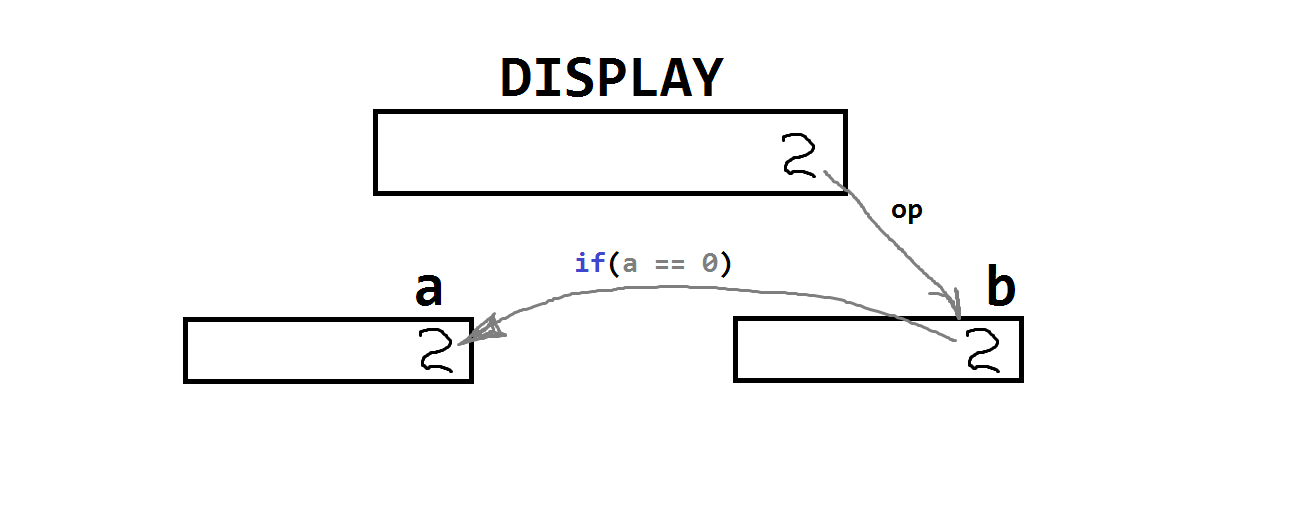
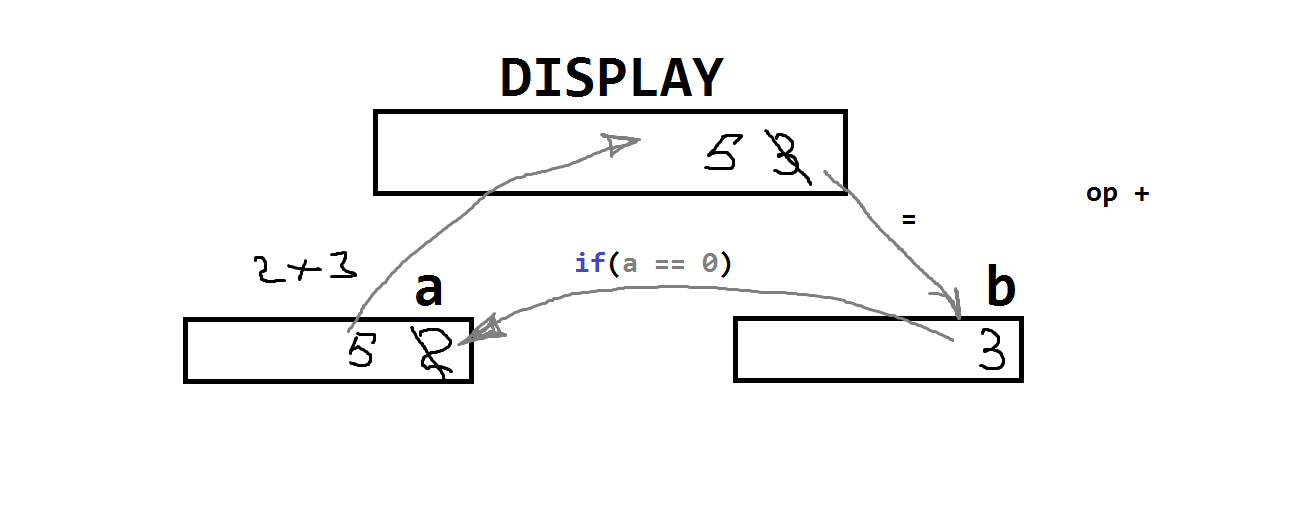
Keyboard in progress

diff --git a/WinAPI/MainWindow/main.cpp b/WinAPI/MainWindow/main.cpp
@@ -104,7 +104,7 @@ INT CALLBACK WndProc(HWND hwnd, UINT uMsg, WPARAM wParam, LPARAM lParam)
 			NULL, //exStyle
 			"Edit",
 			"0",
-			WS_CHILD | WS_VISIBLE | ES_RIGHT | WS_BORDER,
+			WS_CHILD | WS_VISIBLE  | WS_BORDER | ES_RIGHT | ES_READONLY,
 			g_i_START_X, g_i_START_Y,
 			g_i_DISPLAY_WIDTH, g_i_DISPLAY_HEIGHT,
 			hwnd, (HMENU)IDC_EDIT, GetModuleHandle(NULL), NULL
@@ -255,7 +255,9 @@ INT CALLBACK WndProc(HWND hwnd, UINT uMsg, WPARAM wParam, LPARAM lParam)
 		static double b = 0;
 		static bool stored = false;
 		static bool input = false;
+		static bool operation_changed = false;
 		static char operation = 0;
+		static char old_operation = 0;
 		if (LOWORD(wParam) >= IDC_BUTTON_0 && LOWORD(wParam) <= IDC_BUTTON_9)
 		{
 			input = true;
@@ -291,12 +293,16 @@ INT CALLBACK WndProc(HWND hwnd, UINT uMsg, WPARAM wParam, LPARAM lParam)
 		if (LOWORD(wParam) >= IDC_BUTTON_PLUS && LOWORD(wParam) <= IDC_BUTTON_SLASH)
 		{
 			SendMessage(hEdit, WM_GETTEXT, SIZE, (LPARAM)sz_buffer);
-			if(input)b = strtod(sz_buffer, NULL);
+			if (input)b = strtod(sz_buffer, NULL);
 			if (a == 0)
 				a = b;
 			stored = true;
 			input = false;
-			SendMessage(hwnd, WM_COMMAND, IDC_BUTTON_EQUAL, 0);
+			if (operation == old_operation && operation_changed)
+			{
+				SendMessage(hwnd, WM_COMMAND, IDC_BUTTON_EQUAL, 0);
+				//operation_changed = false;
+			}
 			switch (LOWORD(wParam))
 			{
 			case IDC_BUTTON_PLUS:	operation = '+'; break;
@@ -304,11 +310,12 @@ INT CALLBACK WndProc(HWND hwnd, UINT uMsg, WPARAM wParam, LPARAM lParam)
 			case IDC_BUTTON_ASTER:	operation = '*'; break;
 			case IDC_BUTTON_SLASH:	operation = '/'; break;
 			}
+			operation_changed = true;
 		}
 		if (LOWORD(wParam) == IDC_BUTTON_EQUAL)
 		{
 			SendMessage(hEdit, WM_GETTEXT, SIZE, (LPARAM)sz_buffer);
-			if(input)
+			if (input)
 				b = strtod(sz_buffer, NULL);
 			input = false;
 			switch (operation)
@@ -318,9 +325,31 @@ INT CALLBACK WndProc(HWND hwnd, UINT uMsg, WPARAM wParam, LPARAM lParam)
 			case '*': a *= b; break;
 			case '/': a /= b; break;
 			}
+			//old_operation = operation;
+			operation_changed = false;
 			sprintf(sz_buffer, "%g", a);
 			SendMessage(hEdit, WM_SETTEXT, 0, (LPARAM)sz_buffer);
 		}
+	}
+	break;
+	case WM_KEYDOWN:
+	{
+		switch (wParam)
+		{
+		case VK_OEM_PLUS:	SendMessage(hwnd, WM_COMMAND, IDC_BUTTON_PLUS, 0);  break;
+		case VK_OEM_MINUS:	SendMessage(hwnd, WM_COMMAND, IDC_BUTTON_MINUS, 0); break;
+		case VK_MULTIPLY:	SendMessage(hwnd, WM_COMMAND, IDC_BUTTON_ASTER, 0); break;
+		case VK_DIVIDE:		SendMessage(hwnd, WM_COMMAND, IDC_BUTTON_SLASH, 0); break;
+		case VK_RETURN:		SendMessage(hwnd, WM_COMMAND, IDC_BUTTON_EQUAL, 0); break;
+		}
+
+		if (wParam == VK_OEM_PERIOD)SendMessage(hwnd, WM_COMMAND, IDC_BUTTON_POINT, 0);
+
+		if (wParam >= 0x30 && wParam <= 0x39)
+		{
+			SendMessage(hwnd, WM_COMMAND, wParam - 0x30 + 1000, 0);
+		}
+
 	}
 	break;
 	case WM_DESTROY: PostQuitMessage(0); break;
